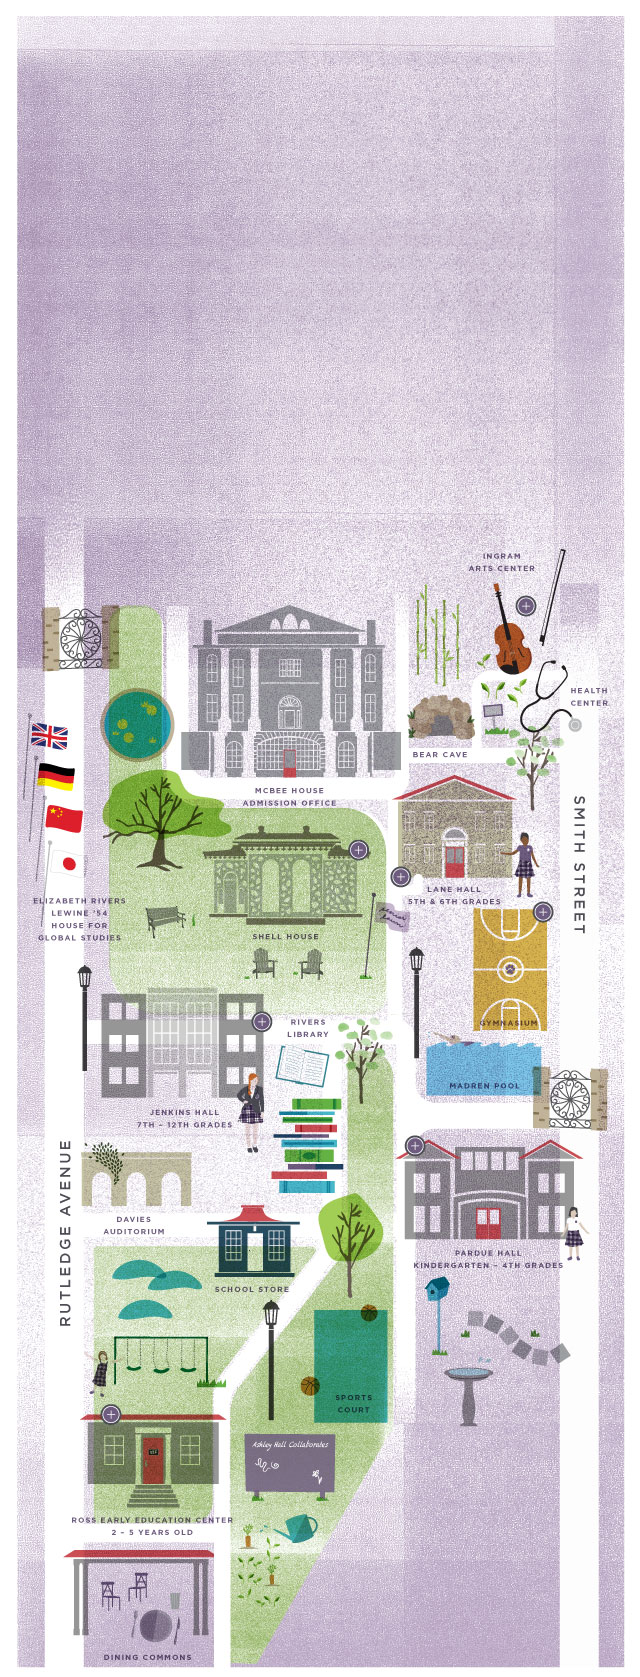
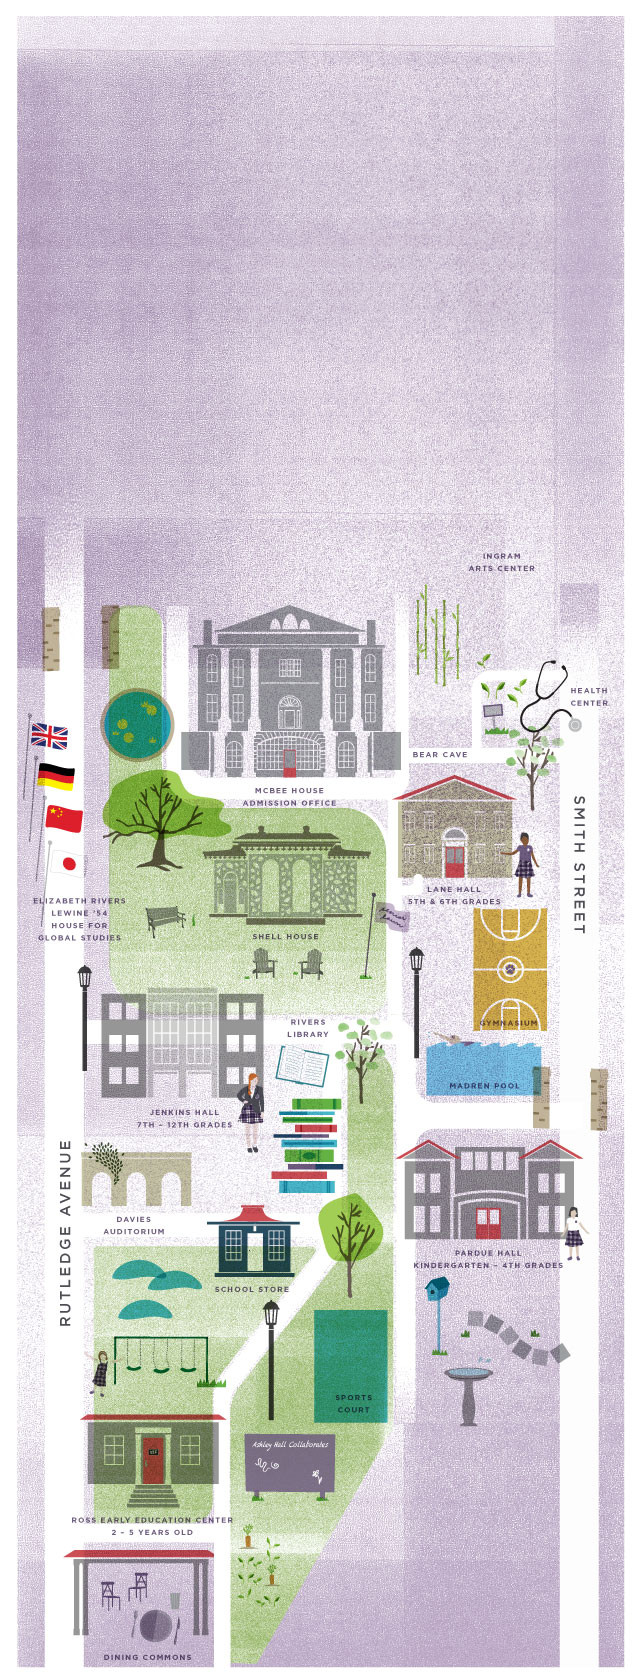
Reposition gifs for mobile map

diff --git a/content/themes/ahw/prod/styles.css b/content/themes/ahw/prod/styles.css
@@ -1,1 +1,1 @@
-.label,h2,h3{letter-spacing:.1em}#feeds,#wrap{margin:0 auto}#logo-main,#pre-feeds>h2,.quote-post>.content,footer header{text-align:center}a,abbr,acronym,address,applet,article,aside,audio,b,big,blockquote,body,canvas,caption,center,cite,code,dd,del,details,dfn,div,dl,dt,em,embed,fieldset,figcaption,figure,footer,form,h1,h2,h3,h4,h5,h6,header,hgroup,html,i,iframe,img,ins,kbd,label,legend,li,mark,menu,nav,object,ol,output,p,pre,q,ruby,s,samp,section,small,span,strike,strong,sub,summary,sup,table,tbody,td,tfoot,th,thead,time,tr,tt,u,ul,var,video{margin:0;padding:0;border:0;font:inherit;vertical-align:baseline}#map-popup>.content>.label,.contact{vertical-align:top}article,aside,details,figcaption,figure,footer,header,hgroup,menu,nav,section{display:block}ol,ul{list-style:none}blockquote,q{quotes:none}blockquote:after,blockquote:before,q:after,q:before{content:'';content:none}table{border-collapse:collapse;border-spacing:0}a,u{text-decoration:none}.font-cd-bold,.font-cd-bolditalic,.font-cd-italic,.font-cd-roman,.quote-post>.content>.cta,html,p{font-family:"Chronicle Display A","Chronicle Display B";font-style:normal;font-weight:400}.font-tng-med,.quote-post>.content p,h2{font-family:"Tungsten A","Tungsten B";font-style:normal;font-weight:600}#footer--fineprint,.font-gss-bold,.font-gss-bolditalic,.font-gss-book,.font-gss-italic,.label,footer header>h2,h3{font-family:"Gotham SSm A","Gotham SSm B";font-style:normal;font-weight:400}.font-cd-bolditalic,.font-cd-italic,.font-gss-bolditalic,.font-gss-italic,.quote-post>.content>.cta{font-style:italic}#footer--fineprint,.font-cd-bold,.font-cd-bolditalic,.font-gss-bold,.font-gss-bolditalic,.label,.quote-post>.content>.cta,footer header>h2,h3{font-weight:700}h2{color:#6E5C7F;font-size:2.7em;text-transform:uppercase;line-height:1.1em}h3{color:#6E5C7F;font-size:16px;text-transform:uppercase;margin:20px 0 0}p{color:#414042;font-size:.9em;line-height:1.2em}html{background-color:#F1F1F1}body{font-size:16px;line-height:1.3em}#wrap{width:1000px}#map-popup{display:none;position:fixed;top:calc(50% - 250px);right:calc(50% - 400px);height:500px;width:800px;padding:10px;z-index:99;background-color:#fff}#map-popup>.image{height:425px}#map-popup>.content{padding:25px 80px}#map-popup>.content>h3{padding-left:40px;display:inline-block;margin:4px 0 0}.close-bttn{position:absolute;top:-20px;right:-20px;width:40px;transform:rotate(45deg)}#corner-link svg,#logo-seal{width:200px}#popup-overlay{display:none;position:fixed;top:0;right:0;width:100vw;height:100vh;z-index:88;background-color:#414042;opacity:.8}#corner-link{flex:0 1 auto}#logo-main{flex:1 0 auto;padding:75px 0 0}#logo-main svg{width:250px}#logo-seal{flex:0 1 auto}#discovery-map{height:2297px;width:1280px;margin:0 auto;position:relative;background:url(/ashley-hall-world/content/themes/ahw/assets/bg-map-01.jpg) center no-repeat #fff;background-size:cover}#discovery-map header{display:flex;justify-content:space-between;align-items:flex-start;flex-wrap:wrap}@media (min-width:640px) and (max-width:1280px){#discovery-map{width:100vw;height:0;padding-bottom:179%}}#headline-primary{width:31.3%;margin:8.7% auto 0}#headline-continue{position:absolute;width:26%;bottom:10%;right:15.5%}#subhead-primary{width:21.5%;margin:1.6% auto 0}#subhead-continue{position:absolute;width:17%;bottom:6.5%;right:21%}@media (max-width:640px){#corner-link,#logo-seal{display:none}#logo-main{padding-top:10%}#logo-main svg{width:30%}#discovery-map{width:100vw;height:0;padding-bottom:270%}#headline-primary{width:69%;margin-top:8%}#headline-continue{width:39%;bottom:7.2%;right:6%}#subhead-primary{margin-top:3%;width:39%}#subhead-continue{width:31.5%;bottom:2.5%;right:10%}}.hover-bttn{width:40px}@media (max-width:640px){.hover-bttn{width:30px}}#gate1,#gate2{width:5.6%;position:absolute}#violin{position:absolute;top:26.5%;right:6.1%;width:18%}#bball{position:absolute;top:67.5%;right:32%;width:14%}#gate1{top:57.5%;right:4.7%}#gate2{top:31.1%;right:89%}#swimmer{position:absolute;top:53.4%;right:11%;width:16%}#watercan{position:absolute;top:83.4%;right:43%;width:10%}#bear{position:absolute;top:34.8%;right:34.4%;width:11%}#ingram{position:absolute;top:30.6%;right:14.3%}#gym{position:absolute;top:43%;right:17%}#lanehall{position:absolute;top:50.1%;right:34.2%}#shellhouse{position:absolute;top:44.6%;right:46.3%}#jenkinshall{position:absolute;top:54.7%;right:80.5%}#ross{position:absolute;top:83.5%;right:61%}#pardue{position:absolute;top:62.6%;right:25.89%}#corner-link>svg .cls-1{fill:#fff}#corner-link>svg .cls-2{fill:#414042}#disc-group>.st0,#offers-group>.st0{fill:#6E5C7F}#feeds{display:flex;justify-content:space-between;align-items:flex-start;flex-wrap:wrap;padding:0 0 50px;width:1000px}#feeds>section:nth-child(1){flex:1 0 805px;margin:0 15px 0 0}@media (max-width:640px){#ingram{top:35%}#gym{top:53.5%;right:11%}#lanehall{top:51.1%;right:34%}#shellhouse{top:49.8%;right:41.3%}#jenkinshall{top:60%;right:56.5%}#ross{top:83.5%;right:81%}#pardue{top:67.5%;right:31.89%}#discovery-map{background:url(/ashley-hall-world/content/themes/ahw/assets/bg-map-01-mobile.jpg) center no-repeat #fff;background-size:cover}#feeds{width:100vw}#feeds>section:nth-child(1){flex:1 0 100%}}#feeds>section:nth-child(2){flex:0 0 160px}@media (max-width:640px){#feeds>section:nth-child(2){flex:1 0 100%}}#feeds--main{display:flex;justify-content:space-between;align-items:flex-start;flex-wrap:wrap}#feeds--main>article{height:410px;padding:10px}#feeds--main>article .content{padding:15px 40px 0}#feeds--main>article .image{height:260px}@media (max-width:640px){#feeds--main>article{flex:1 0 100%;height:100%;padding:0}}#feeds--main>article:nth-child(odd){flex:1 0 500px}@media (max-width:640px){#feeds--main>article:nth-child(odd){flex:1 0 100%}}#feeds--main>article:nth-child(even){flex:0 0 250px;margin:0 0 0 15px}@media (max-width:640px){#feeds--main>article:nth-child(even){flex:1 0 100%;margin:0}#feeds--main>article:nth-child(2){margin-top:15px}}#feeds--main>article:nth-child(n+3){margin-top:15px}#feeds--main .quote-post padding 10px{margin:0 auto}#feeds--main .quote-post:nth-child(odd) p{padding:30px 100px 15px}#feeds--main .quote-post:nth-child(even) p{padding:30px 0 15px}#feeds--learn{display:flex;justify-content:space-between;align-items:flex-start;flex-wrap:wrap}#feeds--learn p{padding:10px 0}#feeds--learn>header{margin-bottom:5px}#feeds--learn>article{flex:0 0 calc(100% - 20px);margin:8px 0;padding:10px}#feeds--learn>article .content{padding:10px}#feeds--learn>article .image{height:160px}.image{display:flex;justify-content:center;align-items:center;flex-wrap:nowrap}.image .play-bttn{flex:0 0 auto;width:50px}.content p{padding:10px 0 30px}.label{padding:0 0 1px}#feeds--main>.quote-post{background-color:#C7B8CD}#feeds--learn .quote-post,.image-post,.video-post{background-color:#fff}#feeds--learn header{padding:0 0 10px;border-bottom:6px solid #414042}#feeds--learn header>h2{font-size:1.8em}#feeds--learn h3{font-size:.7em;line-height:1.3em}#feeds--learn p{font-size:.9em}#feeds--learn .quote-post .label{border-bottom:2px solid #414042}#feeds--learn .quote-post p{font-size:1.2em}#feeds--learn .quote-post a:hover{color:#6E5C7F;border-bottom:2px solid #6E5C7F}.video{position:relative;padding-bottom:1%;overflow:hidden;max-width:100%;height:260px}.video embed,.video iframe,.video object{position:absolute;top:0;left:0;width:100%;height:260px}.label{font-size:.55em;text-transform:uppercase;color:#6E5C7F;border-bottom:3px solid #414042}.quote-post>.content>.cta a:link,.quote-post>.content>.label{color:#414042}.quote-post>.content p{font-size:1.8em;letter-spacing:.05em;line-height:1.2em;text-transform:uppercase;color:#6E5C7F}.quote-post>.content a:link{color:#414042;border-bottom:2px solid #414042;font-size:.7em}.quote-post>.content a:visited{color:#6E5C7F;border-bottom:2px solid #6E5C7F}.quote-post>.content a:hover{color:#fff;border-bottom:2px solid #fff}.quote-post>.content a:active{color:#000}.play-bttn svg .cls-1{fill:#fff}.play-bttn svg path{fill:#000}.play-bttn:hover .cls-1{fill:#6E5C7F}.play-bttn:hover path{fill:#fff}#pre-feeds>h2{padding:30px 0;background-color:#F1F1F1}footer{margin:0 50px;padding-top:50px;padding-bottom:50px;border-top:1px solid #414042}footer header>p{padding:20px 0 40px;margin:0 auto;width:450px}footer section{display:flex;justify-content:space-between;align-items:flex-start;flex-wrap:wrap}footer section #footer--copyright,footer section #footer--social{flex:0 0 auto}#logo-footer{width:250px;margin:auto}#footer--social>ul li{display:inline-block;padding-right:20px}#footer--social>ul li svg{height:20px}#footer--copyright>ul li{display:inline-block;margin:5px}.contact{margin-top:5px;padding-left:20px;border-left:2px solid #414042}footer header>h2{font-size:1.4em}footer header>p{font-size:16px}#footer--fineprint{color:#414042;font-size:.7em;text-transform:uppercase;letter-spacing:.1em}
+.label,h2,h3{letter-spacing:.1em}#feeds,#wrap{margin:0 auto}#logo-main,#pre-feeds>h2,.quote-post>.content,footer header{text-align:center}a,abbr,acronym,address,applet,article,aside,audio,b,big,blockquote,body,canvas,caption,center,cite,code,dd,del,details,dfn,div,dl,dt,em,embed,fieldset,figcaption,figure,footer,form,h1,h2,h3,h4,h5,h6,header,hgroup,html,i,iframe,img,ins,kbd,label,legend,li,mark,menu,nav,object,ol,output,p,pre,q,ruby,s,samp,section,small,span,strike,strong,sub,summary,sup,table,tbody,td,tfoot,th,thead,time,tr,tt,u,ul,var,video{margin:0;padding:0;border:0;font:inherit;vertical-align:baseline}#map-popup>.content>.label,.contact{vertical-align:top}article,aside,details,figcaption,figure,footer,header,hgroup,menu,nav,section{display:block}ol,ul{list-style:none}blockquote,q{quotes:none}blockquote:after,blockquote:before,q:after,q:before{content:'';content:none}table{border-collapse:collapse;border-spacing:0}a,u{text-decoration:none}.font-cd-bold,.font-cd-bolditalic,.font-cd-italic,.font-cd-roman,.quote-post>.content>.cta,html,p{font-family:"Chronicle Display A","Chronicle Display B";font-style:normal;font-weight:400}.font-tng-med,.quote-post>.content p,h2{font-family:"Tungsten A","Tungsten B";font-style:normal;font-weight:600}#footer--fineprint,.font-gss-bold,.font-gss-bolditalic,.font-gss-book,.font-gss-italic,.label,footer header>h2,h3{font-family:"Gotham SSm A","Gotham SSm B";font-style:normal;font-weight:400}.font-cd-bolditalic,.font-cd-italic,.font-gss-bolditalic,.font-gss-italic,.quote-post>.content>.cta{font-style:italic}#footer--fineprint,.font-cd-bold,.font-cd-bolditalic,.font-gss-bold,.font-gss-bolditalic,.label,.quote-post>.content>.cta,footer header>h2,h3{font-weight:700}h2{color:#6E5C7F;font-size:2.7em;text-transform:uppercase;line-height:1.1em}h3{color:#6E5C7F;font-size:16px;text-transform:uppercase;margin:20px 0 0}p{color:#414042;font-size:.9em;line-height:1.2em}html{background-color:#F1F1F1}body{font-size:16px;line-height:1.3em}#wrap{width:1000px}#map-popup{display:none;position:fixed;top:calc(50% - 250px);right:calc(50% - 400px);height:500px;width:800px;padding:10px;z-index:99;background-color:#fff}#map-popup>.image{height:425px}#map-popup>.content{padding:25px 80px}#map-popup>.content>h3{padding-left:40px;display:inline-block;margin:4px 0 0}.close-bttn{position:absolute;top:-20px;right:-20px;width:40px;transform:rotate(45deg)}#corner-link svg,#logo-seal{width:200px}#popup-overlay{display:none;position:fixed;top:0;right:0;width:100vw;height:100vh;z-index:88;background-color:#414042;opacity:.8}#corner-link{flex:0 1 auto}#logo-main{flex:1 0 auto;padding:75px 0 0}#logo-main svg{width:250px}#logo-seal{flex:0 1 auto}#discovery-map{height:2297px;width:1280px;margin:0 auto;position:relative;background:url(/ashley-hall-world/content/themes/ahw/assets/bg-map-01.jpg) center no-repeat #fff;background-size:cover}#discovery-map header{display:flex;justify-content:space-between;align-items:flex-start;flex-wrap:wrap}@media (min-width:640px) and (max-width:1280px){#discovery-map{width:100vw;height:0;padding-bottom:179%}}#headline-primary{width:31.3%;margin:8.7% auto 0}#headline-continue{position:absolute;width:26%;bottom:10%;right:15.5%}#subhead-primary{width:21.5%;margin:1.6% auto 0}#subhead-continue{position:absolute;width:17%;bottom:6.5%;right:21%}@media (max-width:640px){#corner-link,#logo-seal{display:none}#logo-main{padding-top:10%}#logo-main svg{width:30%}#discovery-map{width:100vw;height:0;padding-bottom:270%}#headline-primary{width:69%;margin-top:8%}#headline-continue{width:39%;bottom:7.2%;right:6%}#subhead-primary{margin-top:3%;width:39%}#subhead-continue{width:31.5%;bottom:2.5%;right:10%}}.hover-bttn{width:40px}@media (max-width:640px){.hover-bttn{width:30px}}#gate1,#gate2{width:5.6%;position:absolute}#violin{position:absolute;top:26.5%;right:6.1%;width:18%}#bball{position:absolute;top:67.5%;right:32%;width:14%}#gate1{top:57.5%;right:4.7%}#gate2{top:31.1%;right:89%}#swimmer{position:absolute;top:53.4%;right:11%;width:16%}#watercan{position:absolute;top:83.4%;right:43%;width:10%}#bear{position:absolute;top:34.8%;right:34.4%;width:11%}#ingram{position:absolute;top:30.6%;right:14.3%}#gym{position:absolute;top:43%;right:17%}#lanehall{position:absolute;top:50.1%;right:34.2%}#shellhouse{position:absolute;top:44.6%;right:46.3%}#jenkinshall{position:absolute;top:54.7%;right:80.5%}#ross{position:absolute;top:83.5%;right:61%}#pardue{position:absolute;top:62.6%;right:25.89%}#corner-link>svg .cls-1{fill:#fff}#corner-link>svg .cls-2{fill:#414042}#disc-group>.st0,#offers-group>.st0{fill:#6E5C7F}#feeds{display:flex;justify-content:space-between;align-items:flex-start;flex-wrap:wrap;padding:0 0 50px;width:1000px}#feeds>section:nth-child(1){flex:1 0 805px;margin:0 15px 0 0}@media (max-width:640px){#violin{top:33.5%;right:7.5%;width:19%}#bball{top:77.2%;right:36%;width:18%}#gate1{top:64%;right:6.7%;width:6%}#gate2{top:35.9%;right:84.4%;width:7.4%}#swimmer{top:61.1%;right:15%;width:17.5%}#watercan{top:90.4%;right:50%}#bear{top:41.3%;right:24.4%;width:13%}#ingram{top:35%}#gym{top:53.5%;right:11%}#lanehall{top:51.1%;right:34%}#shellhouse{top:49.8%;right:41.3%}#jenkinshall{top:60%;right:56.5%}#ross{top:83.5%;right:81%}#pardue{top:67.5%;right:31.89%}#discovery-map{background:url(/ashley-hall-world/content/themes/ahw/assets/bg-map-01-mobile.jpg) center no-repeat #fff;background-size:cover}#feeds{width:100vw}#feeds>section:nth-child(1){flex:1 0 100%}}#feeds>section:nth-child(2){flex:0 0 160px}@media (max-width:640px){#feeds>section:nth-child(2){flex:1 0 100%}}#feeds--main{display:flex;justify-content:space-between;align-items:flex-start;flex-wrap:wrap}#feeds--main>article{height:410px;padding:10px}#feeds--main>article .content{padding:15px 40px 0}#feeds--main>article .image{height:260px}@media (max-width:640px){#feeds--main>article{flex:1 0 100%;height:100%;padding:0}}#feeds--main>article:nth-child(odd){flex:1 0 500px}@media (max-width:640px){#feeds--main>article:nth-child(odd){flex:1 0 100%}}#feeds--main>article:nth-child(even){flex:0 0 250px;margin:0 0 0 15px}@media (max-width:640px){#feeds--main>article:nth-child(even){flex:1 0 100%;margin:0}#feeds--main>article:nth-child(2){margin-top:15px}}#feeds--main>article:nth-child(n+3){margin-top:15px}#feeds--main .quote-post padding 10px{margin:0 auto}#feeds--main .quote-post:nth-child(odd) p{padding:30px 100px 15px}#feeds--main .quote-post:nth-child(even) p{padding:30px 0 15px}#feeds--learn{display:flex;justify-content:space-between;align-items:flex-start;flex-wrap:wrap}#feeds--learn p{padding:10px 0}#feeds--learn>header{margin-bottom:5px}#feeds--learn>article{flex:0 0 calc(100% - 20px);margin:8px 0;padding:10px}#feeds--learn>article .content{padding:10px}#feeds--learn>article .image{height:160px}.image{display:flex;justify-content:center;align-items:center;flex-wrap:nowrap}.image .play-bttn{flex:0 0 auto;width:50px}.content p{padding:10px 0 30px}.label{padding:0 0 1px}#feeds--main>.quote-post{background-color:#C7B8CD}#feeds--learn .quote-post,.image-post,.video-post{background-color:#fff}#feeds--learn header{padding:0 0 10px;border-bottom:6px solid #414042}#feeds--learn header>h2{font-size:1.8em}#feeds--learn h3{font-size:.7em;line-height:1.3em}#feeds--learn p{font-size:.9em}#feeds--learn .quote-post .label{border-bottom:2px solid #414042}#feeds--learn .quote-post p{font-size:1.2em}#feeds--learn .quote-post a:hover{color:#6E5C7F;border-bottom:2px solid #6E5C7F}.video{position:relative;padding-bottom:1%;overflow:hidden;max-width:100%;height:260px}.video embed,.video iframe,.video object{position:absolute;top:0;left:0;width:100%;height:260px}.label{font-size:.55em;text-transform:uppercase;color:#6E5C7F;border-bottom:3px solid #414042}.quote-post>.content>.cta a:link,.quote-post>.content>.label{color:#414042}.quote-post>.content p{font-size:1.8em;letter-spacing:.05em;line-height:1.2em;text-transform:uppercase;color:#6E5C7F}.quote-post>.content a:link{color:#414042;border-bottom:2px solid #414042;font-size:.7em}.quote-post>.content a:visited{color:#6E5C7F;border-bottom:2px solid #6E5C7F}.quote-post>.content a:hover{color:#fff;border-bottom:2px solid #fff}.quote-post>.content a:active{color:#000}.play-bttn svg .cls-1{fill:#fff}.play-bttn svg path{fill:#000}.play-bttn:hover .cls-1{fill:#6E5C7F}.play-bttn:hover path{fill:#fff}#pre-feeds>h2{padding:30px 0;background-color:#F1F1F1}footer{margin:0 50px;padding-top:50px;padding-bottom:50px;border-top:1px solid #414042}footer header>p{padding:20px 0 40px;margin:0 auto;width:450px}footer section{display:flex;justify-content:space-between;align-items:flex-start;flex-wrap:wrap}footer section #footer--copyright,footer section #footer--social{flex:0 0 auto}#logo-footer{width:250px;margin:auto}#footer--social>ul li{display:inline-block;padding-right:20px}#footer--social>ul li svg{height:20px}#footer--copyright>ul li{display:inline-block;margin:5px}.contact{margin-top:5px;padding-left:20px;border-left:2px solid #414042}footer header>h2{font-size:1.4em}footer header>p{font-size:16px}#footer--fineprint{color:#414042;font-size:.7em;text-transform:uppercase;letter-spacing:.1em}

diff --git a/content/themes/ahw/src/sass/_discovery.sass b/content/themes/ahw/src/sass/_discovery.sass
@@ -117,12 +117,22 @@
   right: 6.1%
   width: 18%
 
+  +min
+    top: 33.5%
+    right: 7.5%
+    width: 19%
+
 
 #bball
   position: absolute
   top: 67.5%
   right: 32%
   width: 14%
+
+  +min
+    top: 77.2%
+    right: 36%
+    width: 18%
 
 
 #gate1
@@ -131,12 +141,23 @@
   right: 4.7%
   width: 5.6%
 
+  +min
+    top: 64%
+    right: 6.7%
+    width: 6%
+
 
 #gate2
   position: absolute
   top: 31.1%
   right: 89%
   width: 5.6%
+  
+  +min
+    top: 35.9%
+    right: 84.4%
+    width: 7.4%
+
 
 #swimmer
   position: absolute
@@ -144,17 +165,31 @@
   right: 11%
   width: 16%
 
+  +min
+    top: 61.1%
+    right: 15%
+    width: 17.5%
+
 #watercan
   position: absolute
   top: 83.4%
   right: 43%
   width: 10%
 
+  +min
+   top: 90.4%
+   right: 50%
+
 #bear
   position: absolute
   top: 34.8%
   right: 34.4%
   width: 11%
+
+  +min
+    top: 41.3%
+    right: 24.4%
+    width: 13%
 
 
 
